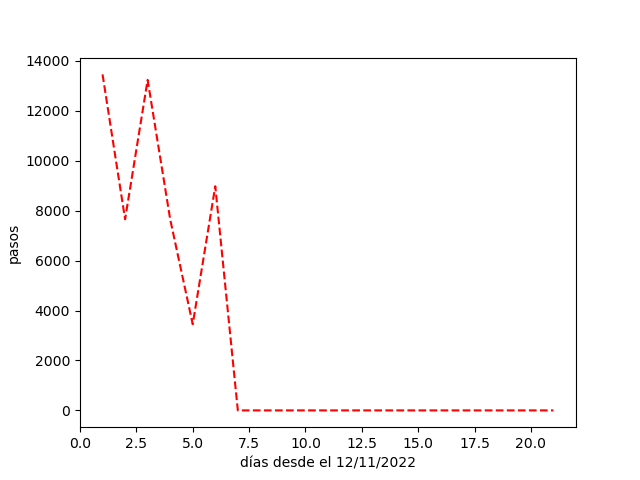
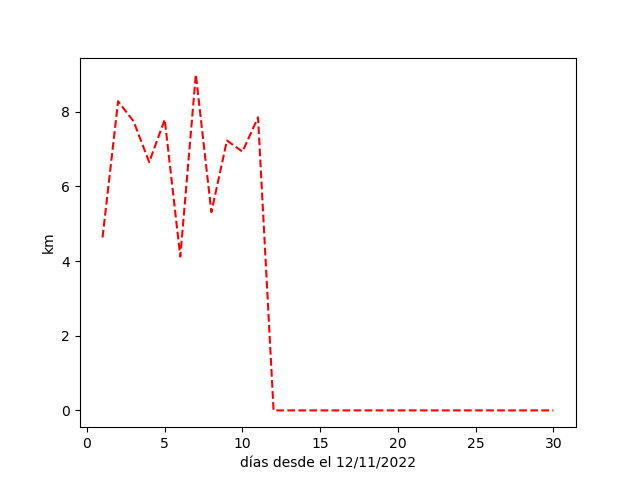
Python walk script

diff --git a/python/scripts/plotwalk.py b/python/scripts/plotwalk.py
@@ -7,6 +7,6 @@ x = data[0]
 y = data[1]
 plt.plot(x, y,'r--')
 plt.xlabel("días desde el 12/11/2022");
-plt.ylabel("pasos");
+plt.ylabel("km");
 
 plt.savefig('figures/walk.png')
